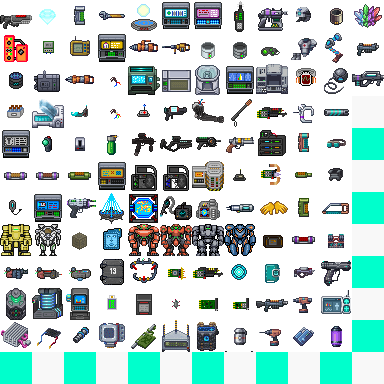
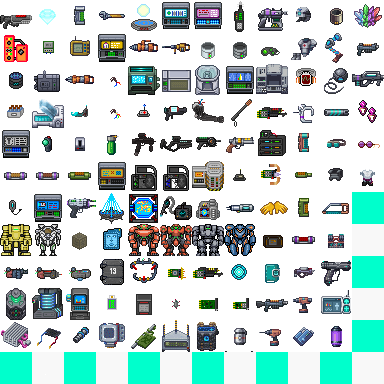
the rest

Changed region(s): [[0.9062, 0.25, 1.0, 0.5]]

diff --git a/nano/css/shared.css b/nano/css/shared.css
@@ -1035,6 +1035,10 @@ img.sciTechTreeIconToolTip {
 .icon-greysonarmor { background-position: -320px -160px; }
 .icon-roomba_kit { background-position: -320px -224px; }
 
+.icon-psi_uniform { background-position: -352px -96px; }
+.icon-psi_glasses { background-position: -352px -128px; }
+.icon-psi_earring { background-position: -352px -160px; }
+
 .sciMenuButton {
     width: 300px;
     float: left;
